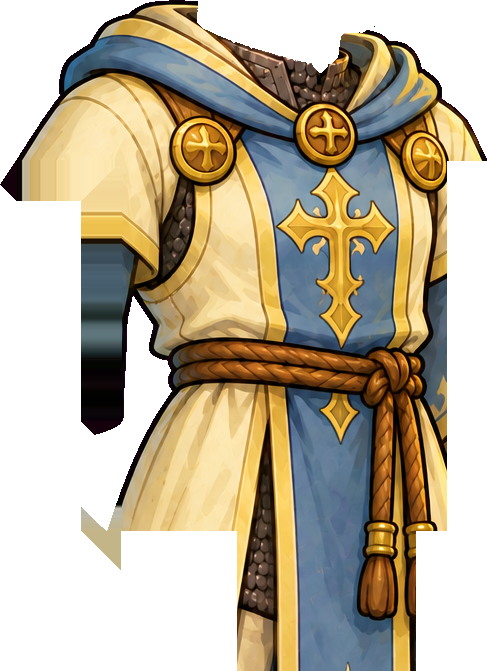
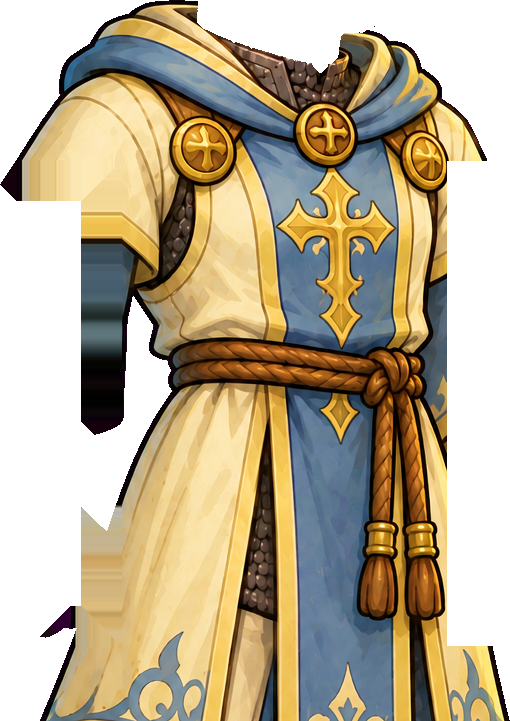
Beards draw over head hair; skirts/robes stay on torso during walk

diff --git a/preview-character/index.html b/preview-character/index.html
@@ -221,10 +221,10 @@ function compose(pose = null) {
   if (rig) put(body.rig.torso, skinned(body.rig.torso, state.skin));
   else if (body) put(body.part, skinned(body.part, body.lime ? state.skin : null));
   if (face.beard) put(face.beard, img[face.beard.file]);
-  const beard = face.template === 'm' && byId(M.beards || [], state.beard);
-  if (beard) fit(beard.part, gradientPart(beard.part.file, beard.lum, state.hairCol), beard.ref_skull);
   const hair = byId(M.hairs, state.hair);
   if (hair) put(hair.part, haired(hair, state.hairCol), face.skull[1] - hair.ref_skull[1], face.skull[0] - hair.ref_skull[0]);
+  const beard = face.template === 'm' && byId(M.beards || [], state.beard);
+  if (beard) fit(beard.part, gradientPart(beard.part.file, beard.lum, state.hairCol), beard.ref_skull);
   if (race.ears && !face.races) {  // generic faces get the race's ears (+ tusks), drawn over hair
     const e = M.ears[race.ears];
     put(e.part, skinned(e.part, skin), face.skull[1] - e.ref_skull[1], face.skull[0] - e.ref_skull[0]);

diff --git a/tools/build_preview.py b/tools/build_preview.py
@@ -48,21 +48,23 @@ RIG = {
 }
 
 
-def split_rig(a, r):
+def split_rig(a, r, hem):
     """Cut a full outfit image into rig pieces (torso, arms, thighs, shins)."""
     H, W = a.shape[:2]
     yy, xx = np.mgrid[0:H, 0:W]
     vis = a[..., 3] > 0
     tx0, tx1, ty = r["tabard"]
+    ty = max(ty, hem)
     arm_band = (yy >= r["arm_top"]) & (yy < r["arm_bottom"])
     arm_n = (xx < r["arm_n_x"]) & arm_band
     arm_f = (xx > r["arm_f_x"]) & arm_band
-    legs = (yy >= r["leg_top"]) & ~((xx > tx0) & (xx < tx1) & (yy < ty)) & ~arm_n & ~arm_f
+    # everything above the hem (skirt, tabard, robe, faulds) stays on the torso
+    legs = (yy >= max(r["leg_top"], hem)) & ~arm_n & ~arm_f
     torso = vis & ~legs & ~arm_n & ~arm_f
     near = xx < r["leg_split_x"]
     k = r["knee_y"]
     # thighs reach up under the torso so a swinging leg never shows a gap at the hip
-    thigh_zone = (yy >= r["leg_top"] - 90) & ~arm_n & ~arm_f
+    thigh_zone = (yy >= max(r["leg_top"], hem) - 60) & ~arm_n & ~arm_f
     regions = {
         "torso": torso, "arm_n": vis & arm_n, "arm_f": vis & arm_f,
         "thigh_n": vis & thigh_zone & near & (yy < k + 30), "shin_n": vis & legs & near & (yy >= k - 30),
@@ -123,11 +125,11 @@ SCARS = set()  # old scars were painted on retired faces; scars come back as gen
 
 # id, file, label, template
 BODIES = [
-    ("knight_m", "../../template/male_base", "Knight plate", "m"),
-    ("cleric_m", "aldric_lime_cleric", "Cleric robe", "m"),
-    ("guard_m", "ogre_lime_01", "Caravan guard", "m"),
-    ("cleric_f", "human_f_lime_01", "Cleric robe", "f"),
-    ("knight_f", "female_face02_knight", "Knight plate", "f"),
+    ("knight_m", "../../template/male_base", "Knight plate", "m", 985),
+    ("cleric_m", "aldric_lime_cleric", "Cleric robe", "m", 1050),
+    ("guard_m", "ogre_lime_01", "Caravan guard", "m", 900),
+    ("cleric_f", "human_f_lime_01", "Cleric robe", "f", 0),
+    ("knight_f", "female_face02_knight", "Knight plate", "f", 0),
 ]
 
 EARS = ["elf", "goblin", "ogre"]  # authored on lime Aldric
@@ -337,7 +339,7 @@ def main():
                       "lime": True, "part": save_part(head, f"head_{fid}", True, hue_lo=40, reach=12, eyes=True)})
 
     bodies = []
-    for bid, fname, label, tpl in BODIES:
+    for bid, fname, label, tpl, hem in BODIES:
         a = keyed(SRC / f"{fname}.png")
         cut = TEMPLATES[tpl]["cut"]
         hm = head_mask(a, cut)
@@ -363,7 +365,7 @@ def main():
             entry["back"] = save_part(back, f"body_{bid}_back", True)
         if tpl in RIG:
             entry["rig"] = {k: save_part(v, f"body_{bid}_{k}", True)
-                            for k, v in split_rig(front, RIG[tpl]).items() if (v[..., 3] > 0).any()}
+                            for k, v in split_rig(front, RIG[tpl], hem).items() if (v[..., 3] > 0).any()}
         bodies.append(entry)
 
     ears = {}
